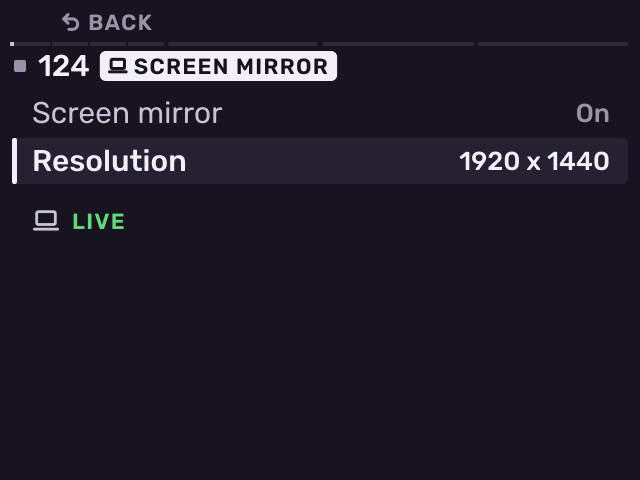
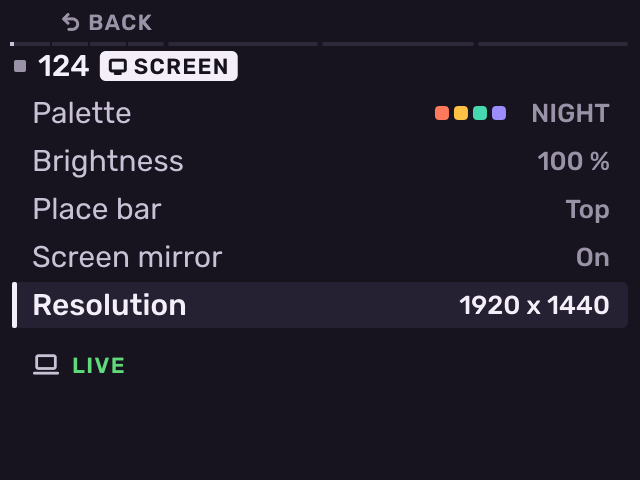
feat(melodee): Screen Mirror's rows move into Settings > SCREEN, its brightness row named Brightness

diff --git a/src/melodee/pages/settings_page.cpp b/src/melodee/pages/settings_page.cpp
@@ -1,24 +1,24 @@
 // SPDX-License-Identifier: AGPL-3.0-only
 // Copyright (C) 2026 Kerem Kilic (Ellic Studio)
 // SETTINGS (Shift + Pad 8): Melodee's own settings, kept on the card next
-//   to the projects, as eight doors (four by two): PADS (response, pressure,
+//   to the projects, as seven doors (four by two): PADS (response, pressure,
 //   lights, what Double Seq puts in the new half, how many bars Capture keeps
 //   and how it puts them on the grid), KNOBS (how the knobs,
 //   Knob FX and the fader take over a value: Pickup, Scaled, Instant),
-//   SCREEN (palette, brightness, where the place bar sits), AUDIO (the
+//   SCREEN (palette, brightness, where the place bar sits, and Screen Mirror:
+//   the screen as a USB webcam for a computer, on or off, and its size;
+//   under the rows, while it is on, how it goes: ready, live, paused while
+//   the card is shared), AUDIO (the
 //   sample rate and the buffer: longer rides out a slow moment without a
 //   crackle, shorter is heard sooner), SAMPLING (how Audio Recall cuts the
-//   ring and when a Free take ends on its own), MIDI (MIDI Config's page),
-//   SCREEN MIRROR (the screen as a USB webcam for a computer, on or off, and
-//   its size; under the rows, how it goes: off, ready, live, paused while the
-//   card is shared) and ABOUT. The wheel picks a door, Push or B3 opens it,
-//   B1 goes back.
+//   ring and when a Free take ends on its own), MIDI (MIDI Config's page)
+//   and ABOUT. The wheel picks a door, Push or B3 opens it, B1 goes back.
 //   Behind a door its rows, one screen each: the wheel moves, Push opens a
 //   value and the wheel changes it, Push keeps it; Minus / Plus change the
 //   one under the cursor straight away; B1 back to the doors. The header of
 //   the doors and of AUDIO says what the audio device runs at, and its
 //   dropouts (amber) if any.
-// ABOUT (the eighth door; round 2, about C "how the machine is doing"): the
+// ABOUT (the seventh door; round 2, about C "how the machine is doing"): the
 //   page to open when something crackles. A row each: RENDER (each core's
 //   load as a meter, and the audio blocks' share of their time), AUDIO (the
 //   rate and the buffer, its dropouts in amber), CARD (room on it, and the
@@ -41,22 +41,21 @@ using namespace ui;
 
 struct Door { Icon icon; const char* name; std::array<int8_t, 6> rows; };
 constexpr int8_t none = -1;
-const std::array<Door, 8> doors {{
+const std::array<Door, 7> doors {{
     {Icon::Pads, "PADS", {Settings::PadResponse, Settings::PadPressure, Settings::PadLights, Settings::DoubleSeq, Settings::CaptureBars,
                           Settings::CaptureQuantize}},
     {Icon::Knob, "KNOBS", {Settings::KnobTakeover, Settings::KnobFxTakeover, Settings::FaderTakeover, none, none, none}},
-    {Icon::Screen, "SCREEN", {Settings::Palette, Settings::Screen, Settings::PlaceBarRow, none, none, none}},
+    {Icon::Screen, "SCREEN", {Settings::Palette, Settings::Screen, Settings::PlaceBarRow, Settings::Mirror, Settings::MirrorSize, none}},
     {Icon::Speaker, "AUDIO", {Settings::SampleRate, Settings::AudioBuffer, none, none, none, none}},
     {Icon::Mic, "SAMPLING", {Settings::RecallGrabRow, Settings::RecallGap, Settings::RecallTrimEnd, Settings::TakeAutoEnd, Settings::AutoEndAfter,
                              Settings::SilenceBelow}},
     {Icon::Din, "MIDI", {none, none, none, none, none, none}},  // MIDI Config's own page
-    {Icon::Laptop, "SCREEN MIRROR", {Settings::Mirror, Settings::MirrorSize, none, none, none, none}},
     {Icon::Info, "ABOUT", {none, none, none, none, none, none}}, // the About page
 }};
-constexpr unsigned audio_door = 3, midi_door = 5, mirror_door = 6, about_door = 7;
+constexpr unsigned screen_door = 2, audio_door = 3, midi_door = 5, about_door = 6;
 void trouble(Paint& p, float right, float cy, unsigned count);
 
-// SCREEN MIRROR, under its rows: how it goes (the runtime's state). Amber when it waits on the card or failed, and
+// Screen Mirror, under SCREEN's rows while it is on: how it goes (the runtime's state). Amber when it waits on the card or failed, and
 // IN USE (a lock) while a change made in the rows waits for the computer to close the camera (never unplugged under
 // an app showing it); the size offered only when a JPEG size fell back to 640 x 480 (no JPEG encoder), else the row
 // above says it.
@@ -113,17 +112,8 @@ void doors_draw(Paint& p, const Snapshot& s) {
         p.fill(x, y, w, h, on ? colour::raised : colour::surf, 5);
         if (on) p.fill(x, y, w, 2.5f, colour::text, 1);
         auto c = on ? colour::text : colour::mid;
-        auto style = caps_text(c);
-        juce::String name(doors[n].name);
-        int space = name.indexOfChar(' ');
-        if (space > 0 && p.width(name, style) > w - 8) { // a long name on two lines, the icon higher
-            icon(p, doors[n].icon, x + w / 2 - 11, y + 8, 22, c, 1.5f);
-            p.text(name.substring(0, space), x, y + 35, w, 13, style, juce::Justification::centred);
-            p.text(name.substring(space + 1), x, y + 48, w, 13, style, juce::Justification::centred);
-            continue;
-        }
         icon(p, doors[n].icon, x + w / 2 - 11, y + 12, 22, c, 1.5f);
-        p.text(doors[n].name, x, y + 42, w, 14, style, juce::Justification::centred);
+        p.text(doors[n].name, x, y + 42, w, 14, caps_text(c), juce::Justification::centred);
     }
 }
 
@@ -152,8 +142,9 @@ void rows_draw(Paint& p, const Snapshot& s) {
         if (row == Settings::Palette) // the palette's first track colours
             for (unsigned t = 0; t < 4; ++t) p.fill(vx - 10 - (4 - t) * 9.5f, y + 8, 7, 7, track_colour(t), 2);
     }
-    if (s.ui.settings_door % doors.size() == mirror_door) {
-        mirror_line(p, s, x, zone::picture_y + 1 + door_rows(d) * (list_row_h + list_row_gap) + 6, w);
+    if (s.ui.settings_door % doors.size() == screen_door) { // Screen Mirror, while it is on or a change waits
+        if (MirrorState(s.mirror_state) != MirrorState::Off || s.mirror_held)
+            mirror_line(p, s, x, zone::picture_y + 1 + door_rows(d) * (list_row_h + list_row_gap) + 6, w);
         return;
     }
     if (s.ui.settings_door % doors.size() != audio_door) return;

diff --git a/src/melodee/tools.cpp b/src/melodee/tools.cpp
@@ -1714,14 +1714,13 @@ const Preview previews[] {
     {"settingssampling", [](Shell&, Snapshot& s) { // the sampling rows: how Audio Recall cuts, when a take ends on its own
         s.ui.page = PageId::SettingsPage; s.ui.settings_in = true; s.ui.settings_door = 4; s.ui.settings_cursor = Settings::RecallGrabRow; s.ui.settings_editing = true;
     }},
-    {"settingsmirror", [](Shell&, Snapshot& s) { // SCREEN MIRROR's rows: on at 1920 x 1440, a computer showing it
-        s.ui.page = PageId::SettingsPage; s.ui.settings_in = true; s.ui.settings_door = 6; s.ui.settings_cursor = Settings::MirrorSize;
+    {"settingsmirror", [](Shell&, Snapshot& s) { // SCREEN's rows with Screen Mirror on at 1920 x 1440, a computer showing it
+        s.ui.page = PageId::SettingsPage; s.ui.settings_in = true; s.ui.settings_door = 2; s.ui.settings_cursor = Settings::MirrorSize;
         s.ui.settings.mirror = true; s.ui.settings.mirror_size = 4;
         s.mirror_state = uint8_t(MirrorState::Streaming); s.mirror_width = 1920; s.mirror_height = 1440;
     }},
-    {"settingsmirrordoor", [](Shell&, Snapshot& s) { s.ui.page = PageId::SettingsPage; s.ui.settings_door = 6; }}, // the doors, SCREEN MIRROR in hand
     {"settingsmirrorheld", [](Shell&, Snapshot& s) { // turned off while a computer shows it: it waits for the computer to close the camera
-        s.ui.page = PageId::SettingsPage; s.ui.settings_in = true; s.ui.settings_door = 6; s.ui.settings_cursor = Settings::Mirror;
+        s.ui.page = PageId::SettingsPage; s.ui.settings_in = true; s.ui.settings_door = 2; s.ui.settings_cursor = Settings::Mirror;
         s.ui.settings.mirror = false; s.ui.settings.mirror_size = 4;
         s.mirror_state = uint8_t(MirrorState::Streaming); s.mirror_width = 1920; s.mirror_height = 1440; s.mirror_held = true;
     }},

diff --git a/src/melodee/shell/settings.h b/src/melodee/shell/settings.h
@@ -95,7 +95,7 @@ struct Settings {
 
     static const char* row_name(unsigned row) {
         static const char* names[] {"Palette", "Pad response", "Pad pressure", "Pad lights", "Knob takeover", "Knob FX takeover",
-                                    "Fader takeover", "Double Seq", "Capture bars", "Capture quantize", "Screen", "Place bar", "Sample rate", "Audio buffer", "Recall grab", "Recall gap",
+                                    "Fader takeover", "Double Seq", "Capture bars", "Capture quantize", "Brightness", "Place bar", "Sample rate", "Audio buffer", "Recall grab", "Recall gap",
                                     "Recall trim end", "Take auto end", "Auto end after", "Silence below", "Screen mirror", "Resolution"};
         return names[row % Rows];
     }

diff --git a/src/melodee/shell/snapshot.h b/src/melodee/shell/snapshot.h
@@ -105,7 +105,7 @@ struct Snapshot {
     // The audio device as it runs now (the app fills these from the runtime's session): Settings shows them.
     unsigned audio_rate = 44100, audio_periods = 3, audio_xruns = 0;
     // Screen Mirror as it goes (the runtime's session().mirror): a MirrorState, the size offered, whether a larger
-    // size fell back to 320 x 240 (no encoder). Settings' SCREEN MIRROR shows it.
+    // size fell back to 640 x 480 (no encoder). Settings' SCREEN shows it under its rows.
     uint8_t mirror_state = 0;
     unsigned mirror_width = 0, mirror_height = 0;
     bool mirror_fallback = false;

diff --git a/docs/MELODEE.md b/docs/MELODEE.md
@@ -159,7 +159,7 @@ holds the table the dispatch and the lights share.
 | 5 | Compressor | 13 | Trim Sample |
 | 6 | Half Speed | 14 | Time Correct |
 | 7 | Double Speed | 15 | Warp: Time stretch or Pitch for the kit |
-| 8 | Settings (eight doors; MIDI Config one of them) | 16 | Project |
+| 8 | Settings (seven doors; MIDI Config one of them) | 16 | Project |
 
 Toggles (1, 4, 10) are kept in the settings file. While Shift is held the
 pads light white, the panel's own: a toggle that is on Full, a job Dim, and
@@ -1625,14 +1625,29 @@ while following.
   access"); the page is `pages/card_access_page.cpp`, the controls
   `shell/card_access.*`.
 - **Settings** (Shift + Pad 8; Melodee's, the same for every project, as is
-  the metronome): eight doors, four by two (the wheel picks, Push or B3
+  the metronome): seven doors, four by two (the wheel picks, Push or B3
   opens, B1 back), each a short list (Push opens a value, the wheel changes
   it, −/+ at once, B1 back to the doors). **PADS**: pad response (soft,
   medium, hard, full level), pad pressure on / off, pad lights, Double Seq.
   **KNOBS**: Knob / Knob FX / Fader takeover (Pickup, Scaled, Instant;
   Scaled, Scaled, Pickup by default). **SCREEN**: palette, brightness,
-  where the place bar sits (Top, Bottom). **AUDIO**: sample rate (44.1, 48,
-  96 kHz) and audio buffer (256, 384, 512, 768, 1024 frames, shown with the
+  where the place bar sits (Top, Bottom), and Screen Mirror: Screen mirror
+  (Off, On) and Resolution (320 x 240, 640 x 480, 1280 x 720, 1280 x 960,
+  1920 x 1440, 2560 x 1920: the screen times 1, 2, 3 with black at the
+  sides, 4, 6, 8; 1920 x 1440 by default): the screen as a USB webcam over
+  USB-C (`App::screen_mirror()`, base `drivers/screen_mirror.h`: the two
+  smallest as YUYV, exact to the pixel, the rest made JPEG at quality 95 by
+  the RK3566's encoder, 30 fps, a new picture only when the screen changed).
+  Under the rows, while it is on, its state: STARTING, READY, LIVE, CARD SHARED (the
+  webcam steps out while the card is lent), FAILED; the size offered, amber
+  with a warning, only when a JPEG size fell back to 640 x 480 (no encoder).
+  On, off or a new size reconnects the gadget (USB audio, MIDI and the
+  network drop for a second), never under a computer showing the camera:
+  then the change waits (IN USE, amber, a lock) until the computer closes
+  it, Card Access says CAMERA IN USE (CardNote::Camera) and lends nothing,
+  and the USB rate follows later; a restart mid-stream resumes the stream.
+  Kept as `screen_mirror=` and `mirror_size=`. **AUDIO**: sample rate
+  (44.1, 48, 96 kHz) and audio buffer (256, 384, 512, 768, 1024 frames, shown with the
   delay it makes: longer rides out a busy moment without a crackle, shorter
   is heard sooner); the header says what the device runs at now and, in
   amber, its dropouts since start. **SAMPLING**: Recall grab (Last Phrase, First Sound, Whole 25 s), Recall
@@ -1656,22 +1671,7 @@ while following.
   mixdowns and loops are recorded and saved at it (Sampler, Looper). Plug-ins are loaded
   again at the new rate, Monitor hears the source at it, and effects keep
   their timing at it (Effects). Kept in `Melodee/settings` with the project to open at
-  start. **MIDI**: MIDI Config's page. **SCREEN MIRROR**: Screen mirror
-  (Off, On) and Resolution (320 x 240, 640 x 480, 1280 x 720, 1280 x 960,
-  1920 x 1440, 2560 x 1920: the screen times 1, 2, 3 with black at the
-  sides, 4, 6, 8; 1920 x 1440 by default): the screen as a USB webcam over
-  USB-C (`App::screen_mirror()`, base `drivers/screen_mirror.h`: the two
-  smallest as YUYV, exact to the pixel, the rest made JPEG at quality 95 by
-  the RK3566's encoder, 30 fps, a new picture only when the screen changed).
-  Under the rows its state: OFF, STARTING, READY, LIVE, CARD SHARED (the
-  webcam steps out while the card is lent), FAILED; the size offered, amber
-  with a warning, only when a JPEG size fell back to 640 x 480 (no encoder). On, off or a
-  new size reconnects the gadget (USB audio, MIDI and the network drop for
-  a second), never under a computer showing the camera: then the change
-  waits (IN USE, amber, a lock) until the computer closes it, Card Access
-  says CAMERA IN USE (CardNote::Camera) and lends nothing, and the USB
-  rate follows later; a restart mid-stream resumes the stream. Kept as
-  `screen_mirror=` and `mirror_size=`. **ABOUT**: how the machine is
+  start. **MIDI**: MIDI Config's page. **ABOUT**: how the machine is
   doing, the page to open when something crackles: RENDER (each core's load
   as a meter, the audio blocks' share of their time), AUDIO (rate and
   buffer; its dropouts in amber, a check while there are none), CARD (room

diff --git a/docs/guide/settings.md b/docs/guide/settings.md
@@ -11,11 +11,10 @@ it. **B1** goes back.
 | --- | --- |
 | **PADS** | Pad response (soft, medium, hard, full level), pad pressure, pad lights, what Double Seq copies, Recall length and grid |
 | **KNOBS** | Knob, Knob FX and fader takeover: Pickup, Scaled or Instant |
-| **SCREEN** | Palette, brightness, place bar at the top or bottom |
+| **SCREEN** | Palette, brightness, place bar at the top or bottom, Screen mirror (on or off) and its resolution: the screen as a USB camera for a computer |
 | **AUDIO** | Sample rate (44.1, 48 or 96 kHz) and audio buffer (256 to 1024 frames). A longer buffer gives fewer crackles on a busy project. A shorter one responds sooner. |
 | **SAMPLING** | Audio Recall settings, and when a Free take ends on its own |
 | **MIDI** | MIDI Config (see [MIDI and sync](midi-and-sync.md)) |
-| **SCREEN MIRROR** | Screen mirror (on or off) and resolution (320 x 240 up to 2560 x 1920): the screen as a USB camera for a computer |
 | **ABOUT** | How the MPC is doing: processor load, audio dropouts, card space, plug-in load |
 
 ![AUDIO](../images/screens/settingsaudio.png)
@@ -25,7 +24,7 @@ playback for about a second while the audio restarts.
 
 ## Screen Mirror
 
-With **Screen mirror** on, a computer connected by USB-C sees the MPC as a
+In **SCREEN**, with **Screen mirror** on, a computer connected by USB-C sees the MPC as a
 camera named **MPC Sample**. Choose it in any camera app (QuickTime Player,
 OBS, a video call) to show the screen. Macs, Windows and Linux computers
 and iPads with USB-C take it; iPhones do not take USB cameras.
@@ -47,7 +46,7 @@ pixel; the JPEG sizes are larger than USB could carry uncompressed. If the
 picture looks soft in an app, pick a larger size: the app then stretches
 it less.
 
-Under the rows: **READY** (the computer has the camera), **LIVE** (an app
+Under the rows while it is on: **READY** (the computer has the camera), **LIVE** (an app
 shows it), **CARD SHARED** (the camera pauses while the card is shared
 over USB, and comes back after). USB audio, MIDI and the network drop for
 about a second when you turn it on or off or change the resolution.
@@ -59,7 +58,7 @@ and does not start, and a new sample rate reaches the computer once the
 camera is closed. If Melodee restarts while an app shows the camera, the
 picture stops for a moment and then goes on.
 
-![SCREEN MIRROR](../images/screens/settingsmirror.png)
+![Screen Mirror in SCREEN](../images/screens/settingsmirror.png)
 
 ---
 
